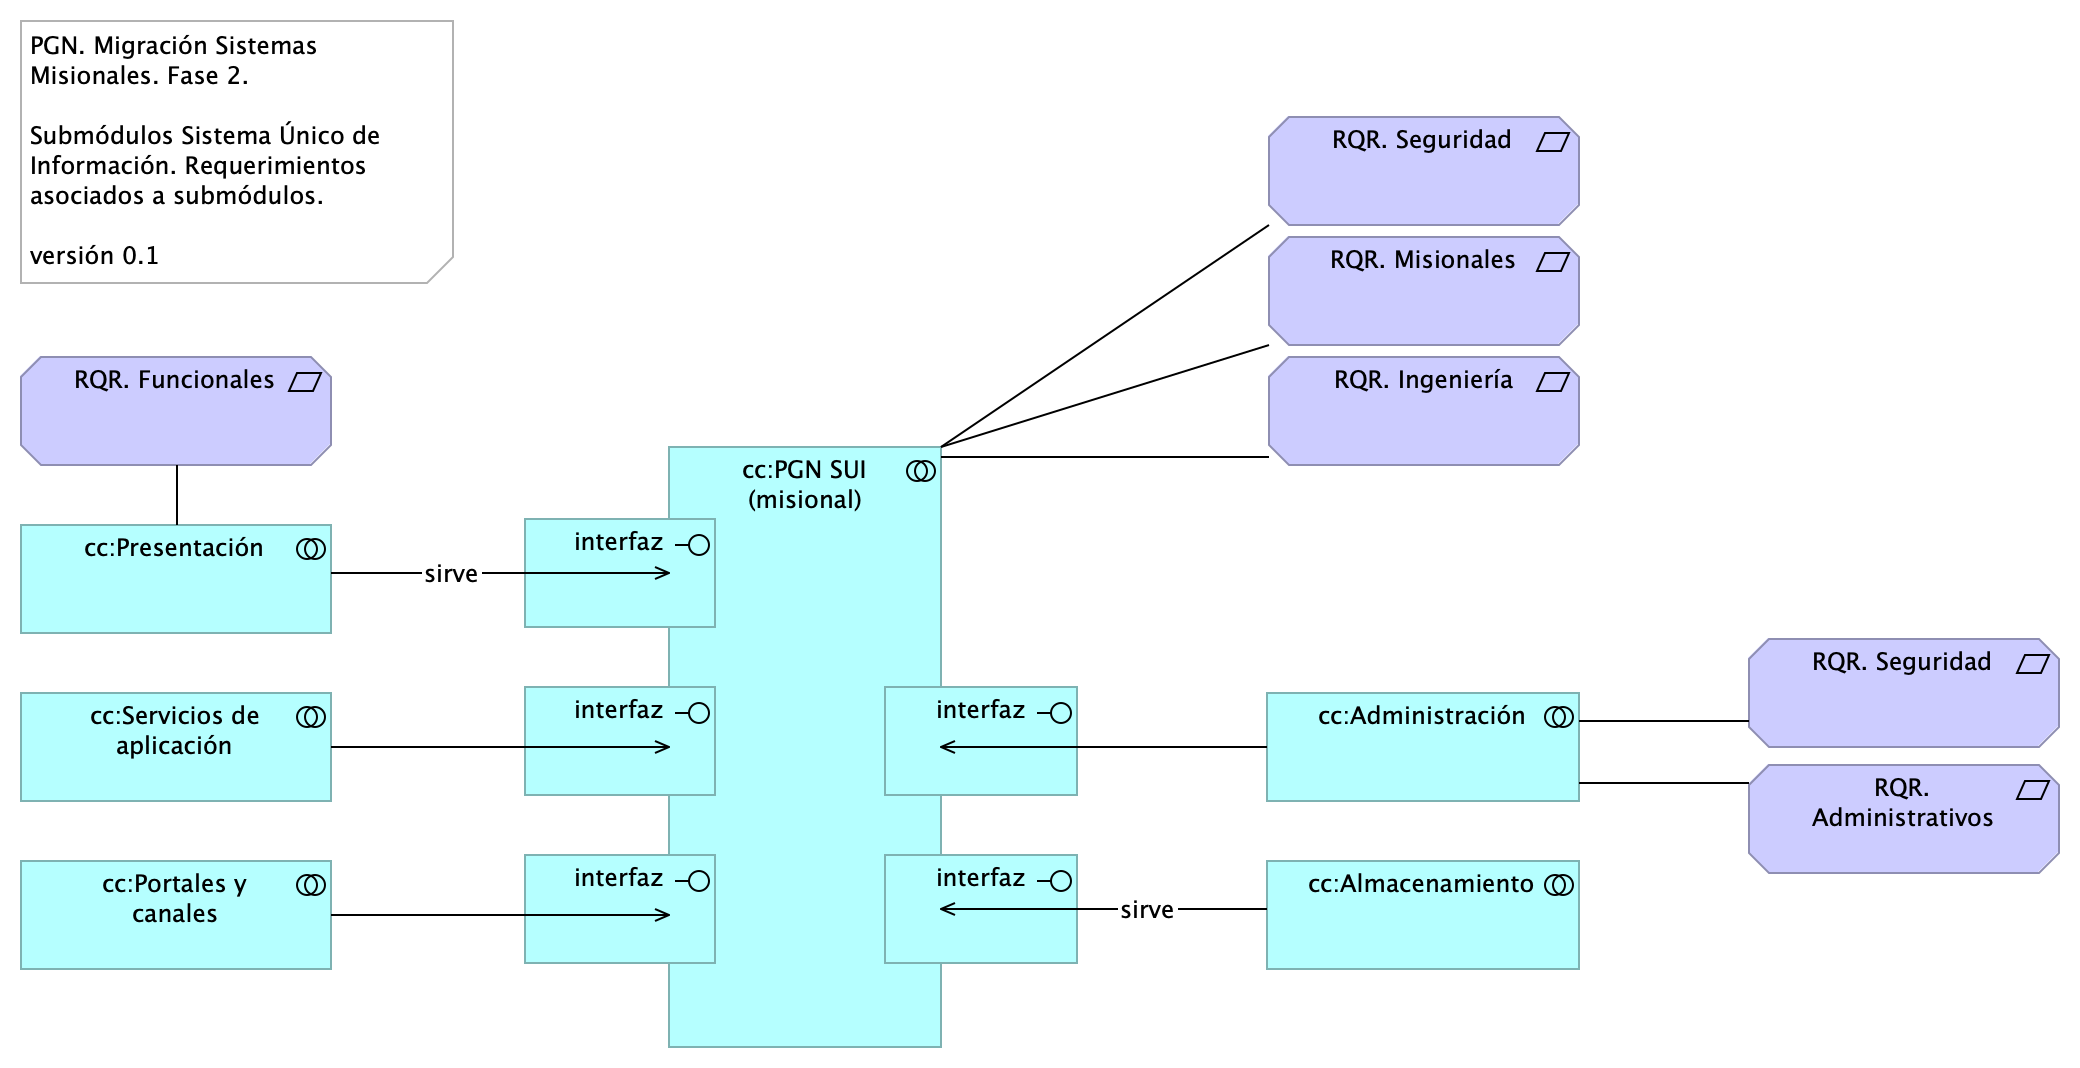
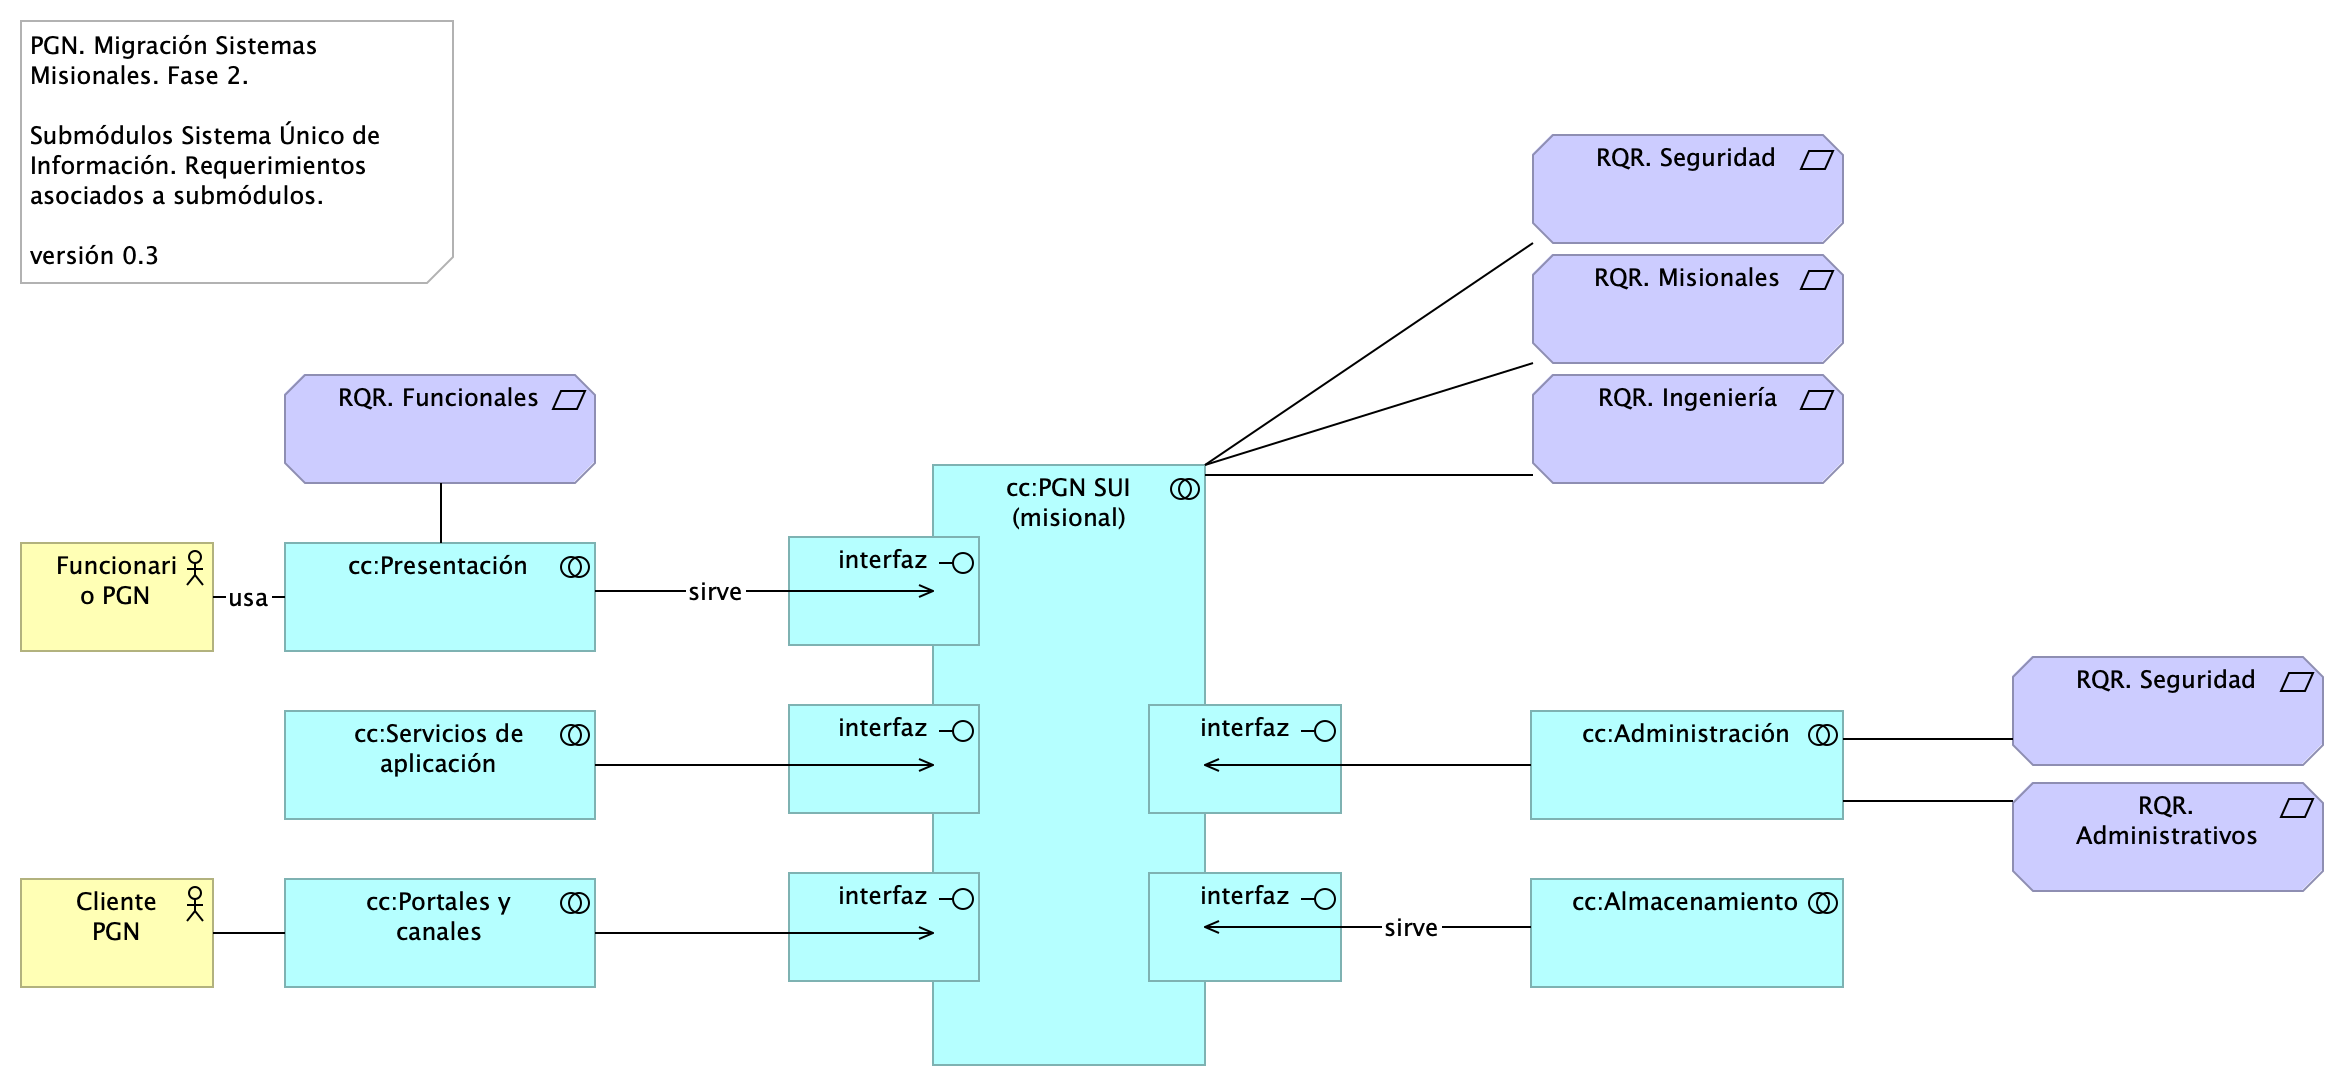
archidoc

Changed region(s): [[0.0, 0.309, 1.0, 0.9888], [0.5625, 0.0927, 0.8125, 0.4635], [0.0, 0.0309, 0.1875, 0.2781]]

diff --git a/content/02n.a1.contenido.md b/content/02n.a1.contenido.md
@@ -26,6 +26,9 @@
 ## Lineabase.0.SIU applicación
 ![Diagram: Lineabase.0.SIU applicación](images/Lineabase.0.SIUapplicación.png){#fig:Lineabase.0.SIUapplicación width=}
 
+Procuraduría General de la Nación, proyecto Migración SIU, 2023, Fase II. Línea base del sistema único de información (SUI en adelante) de la PGN. Presentación de componentes de software  originales implementados en la Fase I del presente proyecto.
+
+
 ## Representación Arquitectónica
 Con una arquitectura orientada a servicios SUI recopila:
 
@@ -257,6 +260,8 @@ La disposición de los módulos y submódulos presentada, denominada SUI Migraci
 |**interfaz**|application-interface|||
 |**interfaz**|application-interface|||
 |**interfaz**|application-interface|||
+|**Cliente PGN**|business-actor|||
+|**Funcionario PGN**|business-actor|||
 |**RQR. Administrativos**|requirement|||
 |**RQR. Funcionales**|requirement|||
 |**RQR. Ingeniería**|requirement|||
@@ -513,4 +518,4 @@ El portal es el conjunto de los elementos físicos y lógicos necesarios para la
 |**Application Interface**|application-interface|||
 
 
-``Generated on: Mon Sep 11 2023 15:47:30 GMT-0500 (COT)``
+``Generated on: Mon Sep 11 2023 16:48:39 GMT-0500 (COT)``

diff --git a/content/Lineabase.0.SIU applicación.md b/content/Lineabase.0.SIU applicación.md
@@ -2,6 +2,9 @@
 ## Lineabase.0.SIU applicación
 ![Diagram: Lineabase.0.SIU applicación](images/Lineabase.0.SIUapplicación.png){#fig:Lineabase.0.SIUapplicación width=}
 
+Procuraduría General de la Nación, proyecto Migración SIU, 2023, Fase II. Línea base del sistema único de información (SUI en adelante) de la PGN. Presentación de componentes de software  originales implementados en la Fase I del presente proyecto.
+
+
 ## Representación Arquitectónica
 Con una arquitectura orientada a servicios SUI recopila:
 

diff --git a/content/Migracion.1a.SIU submodulos.md b/content/Migracion.1a.SIU submodulos.md
@@ -36,6 +36,8 @@ La disposición de los módulos y submódulos presentada, denominada SUI Migraci
 |**interfaz**|application-interface|||
 |**interfaz**|application-interface|||
 |**interfaz**|application-interface|||
+|**Cliente PGN**|business-actor|||
+|**Funcionario PGN**|business-actor|||
 |**RQR. Administrativos**|requirement|||
 |**RQR. Funcionales**|requirement|||
 |**RQR. Ingeniería**|requirement|||
